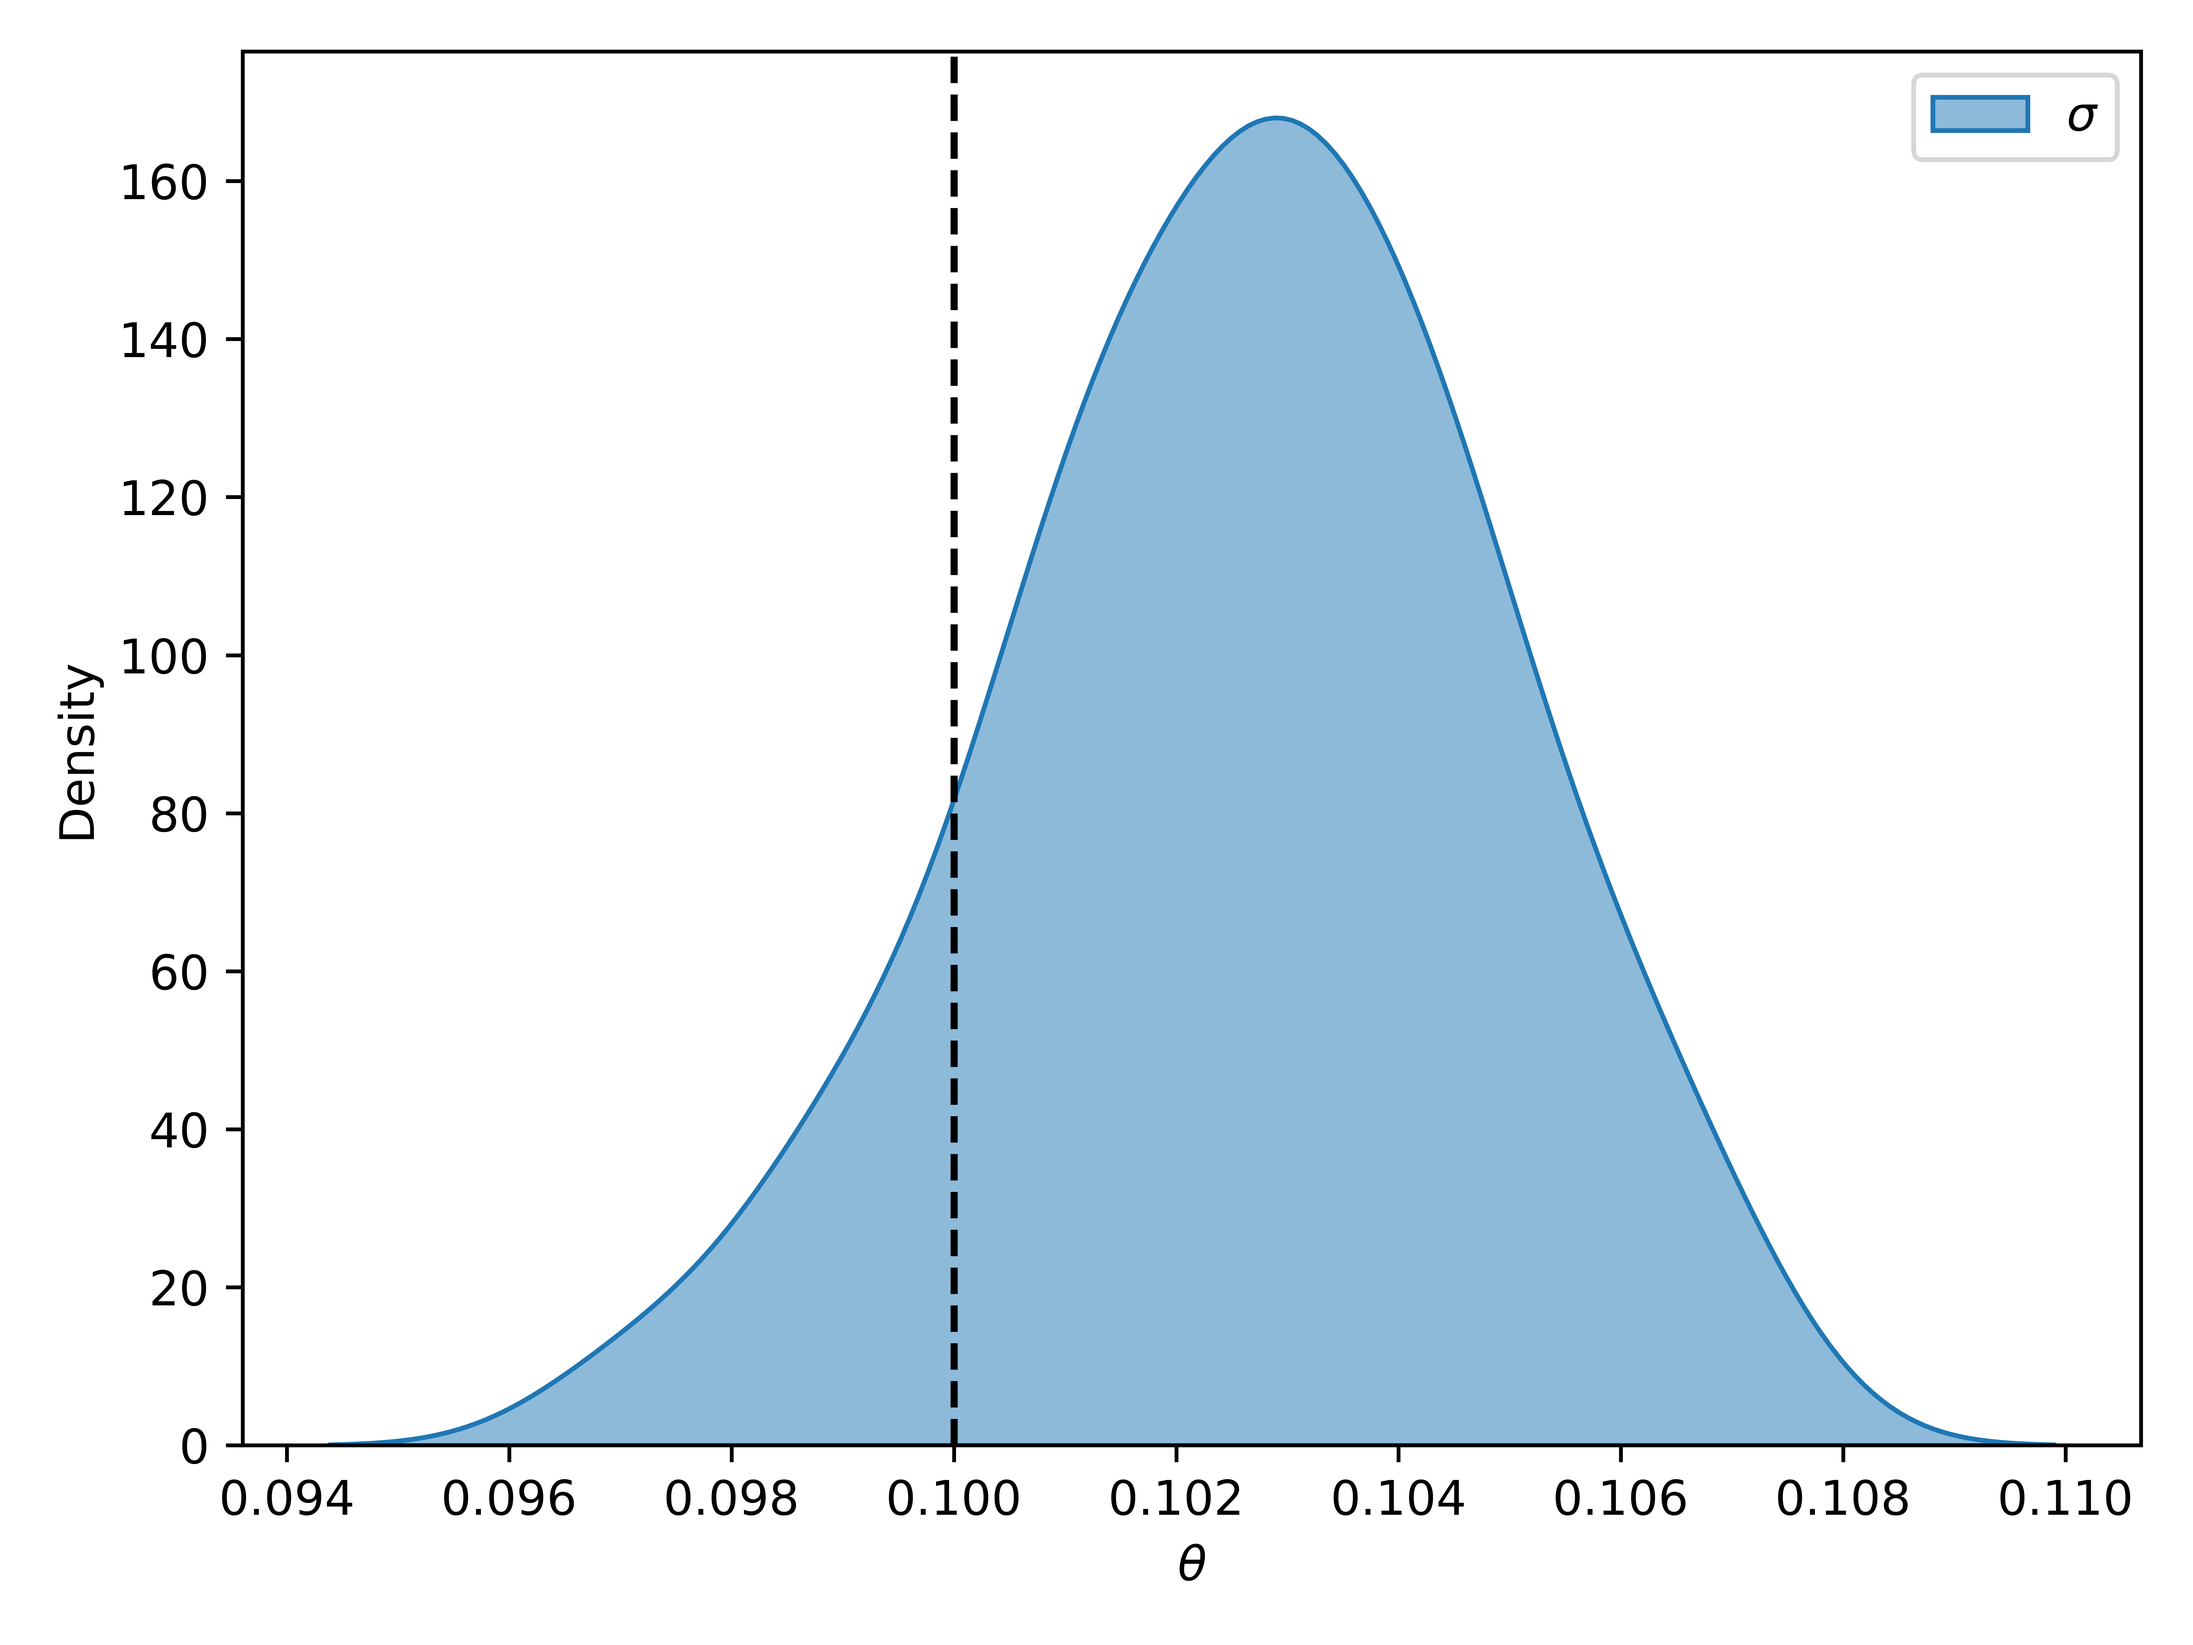
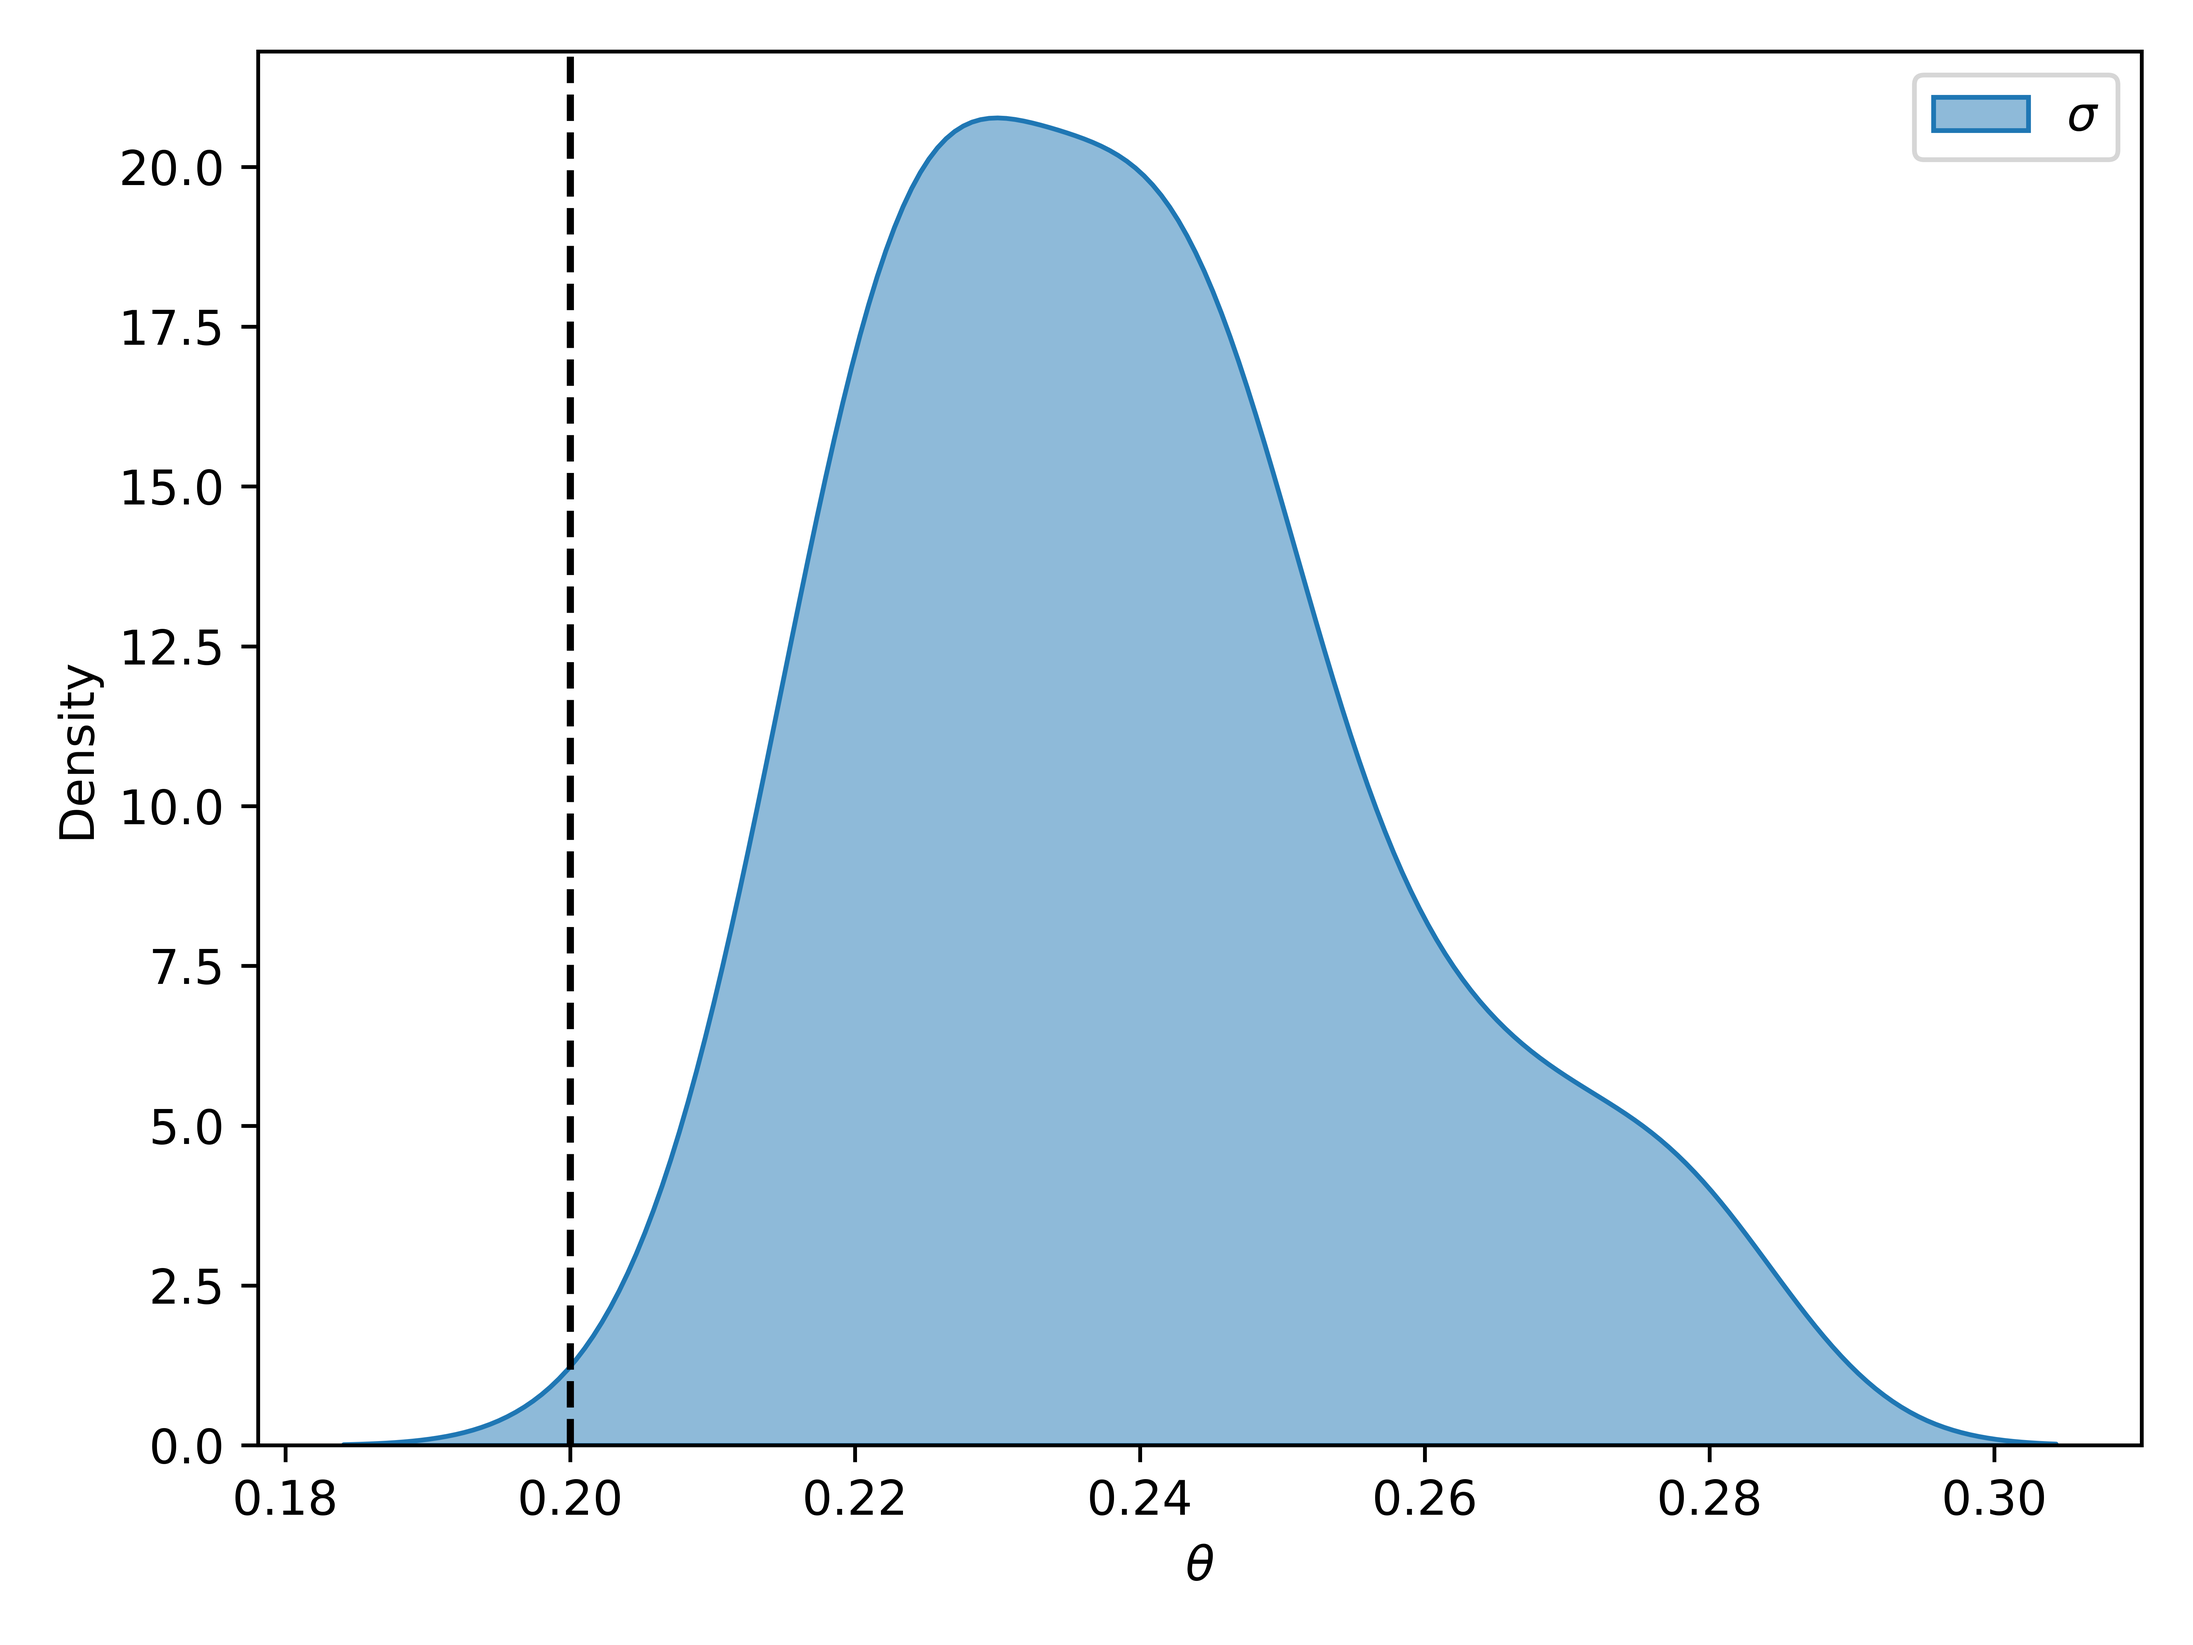
included visualization code for the scale of added noise

diff --git a/updated_base_tests/ssqe_test.py b/updated_base_tests/ssqe_test.py
@@ -1,12 +1,9 @@
+import h5py
 import numpy as np
 import matplotlib.pyplot as plt
-import seaborn as sns
-from scipy.stats import norm
-import sympy
-from sympy import plot_implicit, symbols, Eq, And, sympify, simplify, nsimplify
-from sympy.plotting.plot import MatplotlibBackend, Plot
 
 from bingo.symbolic_regression.agraph.pytorch_agraph import PytorchAGraph
+
 from bingo.local_optimizers.scipy_optimizer import ScipyOptimizer
 from bingo.local_optimizers.local_opt_fitness import LocalOptFitnessFunction
 from bingo.symbolic_regression.implicit_regression import ImplicitRegression, \
@@ -14,69 +11,46 @@ from bingo.symbolic_regression.implicit_regression import ImplicitRegression, \
 from bingo.symbolic_regression.bayes_fitness.implicit_bayes_fitness_function \
                                     import ImplicitBayesFitnessFunction as IBFF
 
-def make_random_data(N, std, h=0, k=0):
+np.random.seed(3)
+PARTICLES = 10
+MCMC_STEPS = 5
+ESS_THRESHOLD = 0.75
+
+def make_data(N, h=0, k=0, r=1):
 
     theta = np.linspace(0, 2*np.pi, N)
-    x = np.cos(theta) + np.random.normal(0, std, size=theta.shape)
-    y = np.sin(theta) + np.random.normal(0, std, size=theta.shape)
+    x = r*np.cos(theta) #+ np.random.normal(0, std, size=theta.shape)
+    y = r*np.sin(theta) #+ np.random.normal(0, std, size=theta.shape)
 
     data_x = np.zeros((N, 2))
     data_x[:,0] = x + h 
     data_x[:,1] = y + k
-
+    print(data_x)
     return data_x
-
-
-
-PARTICLES = 50
-MCMC_STEPS = 10
-ESS_THRESHOLD = 0.75
-h, k = 1, 1
-TRUE_STD_DEV = 0.2
 
 def run_SMC(model):
     
-    num_particles = 100
-    mcmc_steps = 10
+    num_particles = 10
+    mcmc_steps = 50
     ess_threshold = 0.75
-    data = make_random_data(100, TRUE_STD_DEV, h=h, k=k)
-
+    data = make_data(10, r=1.2)
 
     implicit_data = ImplicitTrainingData(data, np.empty_like(data))
     fitness = MLERegression(implicit_data)
     optimizer = ScipyOptimizer(fitness, method='BFGS', 
                     param_init_bounds=[-1.,1.], options={'maxiter':1000})
     MLEclo = LocalOptFitnessFunction(fitness, optimizer)
-    print(MLEclo(model))
     ibff = IBFF(PARTICLES, MCMC_STEPS, ESS_THRESHOLD, implicit_data, MLEclo,
                                     ensemble=10)
     fit, marginal_log_likes, step_list = ibff(model, return_nmll_only=False)
     print(f"-NMLL = {fit}")
     print(str(model))
     print(step_list[-1].compute_mean())
-    mean = list(step_list[-1].compute_mean().values())[0]
-    std = list(step_list[-1].compute_std_dev().values())[0]
-    fig, ax = plt.subplots()
-    labels = [r"$\sigma$"]
-    true_val = [TRUE_STD_DEV]
-    x = np.linspace(mean-3*std, mean+3*std, 1000)
-    y = norm(loc=mean, scale=std).pdf(x)
-    sns.kdeplot(x=abs(step_list[-1].params[:,0]),
-                weights=step_list[-1].weights.flatten(),
-                fill=True,alpha=0.5, ax=ax, palette="crest",
-                label=labels[0])
-    ax.axvline(true_val[0], color='k', linestyle='--')
-    ax.set_ylabel(r"Density")
-    ax.legend(loc="upper right")
-    ax.set_xlabel(r"$\theta$")
-    plt.tight_layout()
-    plt.savefig("base_parameters_circle", dpi=1000)
-    plt.show()
     import pdb;pdb.set_trace()
-
 
 if __name__ == "__main__":
     
-    shape = PytorchAGraph(equation= "(X_0 - 1)^2 + (X_1 - 1)^2 - 1")
-    str(shape)
-    run_SMC(shape)
+    circle = PytorchAGraph(equation="((X_0 - 0) ** 2) + ((X_1 - 0) ** 2) - 1")
+    str(circle)
+    run_SMC(circle)
+

diff --git a/updated_base_tests/visualize_noisy_data.py b/updated_base_tests/visualize_noisy_data.py
@@ -1,0 +1,32 @@
+import numpy as np
+import matplotlib.pyplot as plt
+plt.rcParams["font.family"] = "Times New Roman"
+
+def make_data(N, r=1):
+
+    theta = np.linspace(0, 2*np.pi, N)
+    x = r*np.cos(theta) 
+    y = r*np.sin(theta)
+
+    return x, y
+
+if __name__ == "__main__":
+    
+    std_devs = [0.5, 0.2, 0.1, 0.01, 0.001]
+
+    fig, ax = plt.subplots()
+    cm = plt.cm.tab10
+    X, y = make_data(1000)
+    ax.plot(X, y, color="k")
+    
+    for i, std_dev in enumerate(std_devs):
+        X, y = make_data(1000)
+        X += np.random.normal(0, std_dev, size=X.shape)
+        y += np.random.normal(0, std_dev, size=y.shape)
+        ax.scatter(X, y, label=f"$\sigma = {std_dev}$", color=cm(i))
+    
+    ax.set_ylabel("y", fontsize=16)
+    ax.set_xlabel("X", fontsize=16)
+    ax.legend(fontsize=16)
+    plt.savefig("noise_visualization", dpi=1000)
+    plt.show()

diff --git a/updated_base_tests/kde_parameter_plot.py b/updated_base_tests/kde_parameter_plot.py
@@ -11,7 +11,7 @@ from bingo.local_optimizers.scipy_optimizer import ScipyOptimizer
 from bingo.local_optimizers.local_opt_fitness import LocalOptFitnessFunction
 from bingo.symbolic_regression.implicit_regression import ImplicitRegression, \
                                             ImplicitTrainingData, MLERegression
-from bingo.symbolic_regression.bayes_fitness.alter_implicit_bff \
+from bingo.symbolic_regression.bayes_fitness.implicit_bayes_fitness_function \
                                     import ImplicitBayesFitnessFunction as IBFF
 
 
